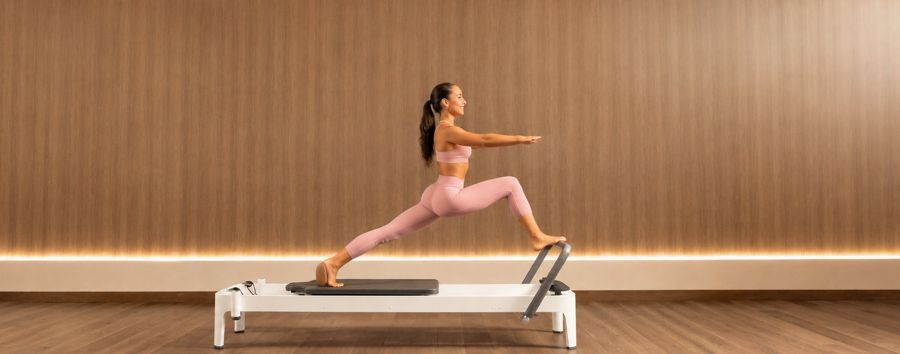
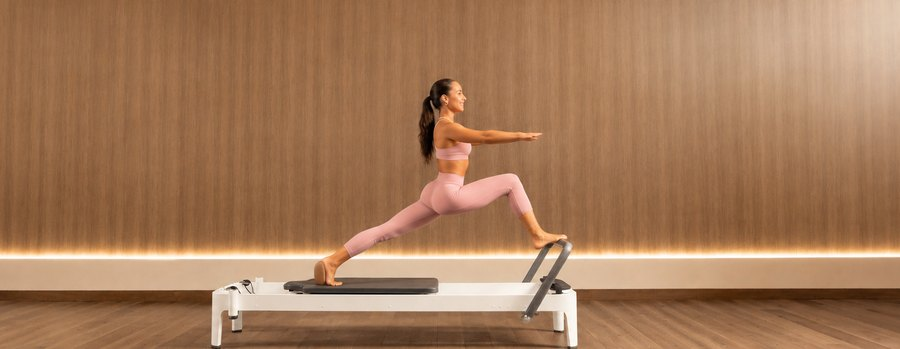
Bannière : suppression des bandes noires de l'image source

diff --git a/index.html b/index.html
@@ -981,7 +981,7 @@
     .ban__card{
       position:relative; overflow:hidden; isolation:isolate; width:100%; max-width:1500px; margin:0 auto;
       border-radius:clamp(18px,2vw,28px); color:var(--offwhite); text-align:center;
-      aspect-ratio:1750/690; min-height:440px; display:flex; align-items:center; justify-content:center;
+      aspect-ratio:1731/671; min-height:440px; display:flex; align-items:center; justify-content:center;
       clip-path:inset(5% 6% round 28px); transition:clip-path 1.6s cubic-bezier(.7,0,.2,1);
     }
     .ban.is-in .ban__card{clip-path:inset(0 0 round clamp(18px,2vw,28px))}
@@ -1964,7 +1964,7 @@
     <div class="ban__img">
       <picture>
         <source media="(max-width:760px)" srcset="image/baniere-mobile.jpg">
-        <img src="image/baniere.jpg" srcset="image/baniere-900.jpg 900w, image/baniere.jpg 1750w" sizes="(max-width:760px) 100vw, 1500px" alt="Une élève en fente sur le Reformer, dans la lumière chaude du studio Chacha" loading="lazy">
+        <img src="image/baniere.jpg" srcset="image/baniere-900.jpg 900w, image/baniere.jpg 1731w" sizes="(max-width:760px) 100vw, 1500px" alt="Une élève en fente sur le Reformer, dans la lumière chaude du studio Chacha" loading="lazy">
       </picture>
     </div>
     <div class="ban__inner">
